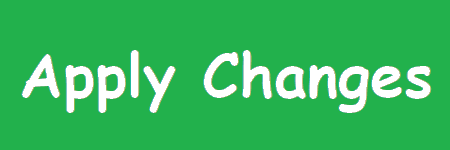
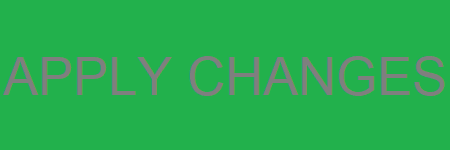
button fix and new save button

Changed region(s): [[0.0, 0.32, 0.9956, 0.7733]]

diff --git a/System/appScreens.py b/System/appScreens.py
@@ -602,8 +602,8 @@ class PasswordWindow(Screen):
 
             self.btn_apply = Button(
                 text="",
-                background_normal = 'buttons/ApplyChanges.png',
-                background_down = 'buttons/ApplyChanges_Pressed.png'
+                background_normal = 'buttons/Save.png',
+                background_down = 'buttons/Save_Pressed.png'
             )
             self.btn_apply.size_hint = (0.4, 0.4)
             self.btn_apply.pos_hint = {"center_x": 0.25}
